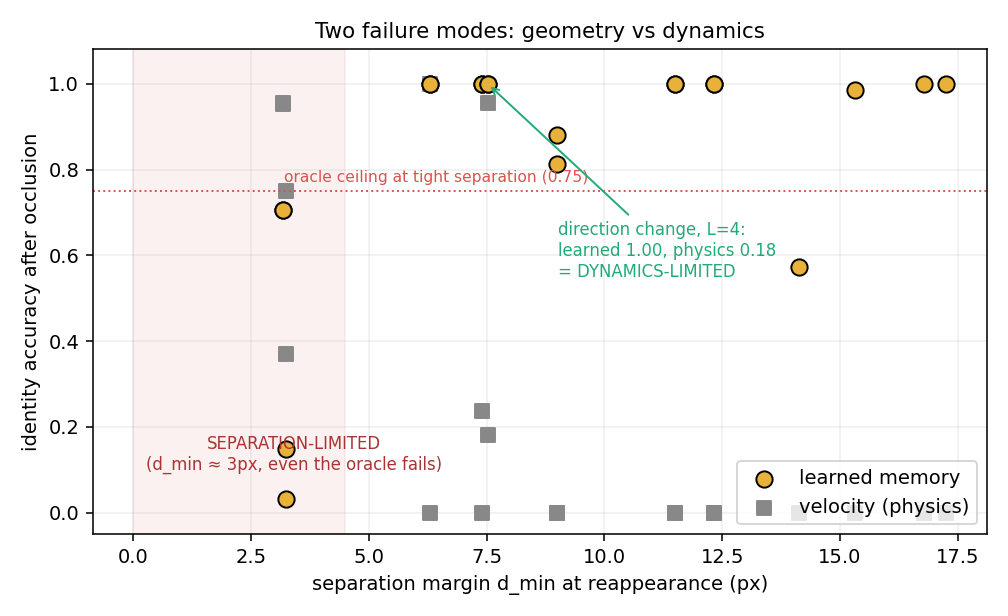
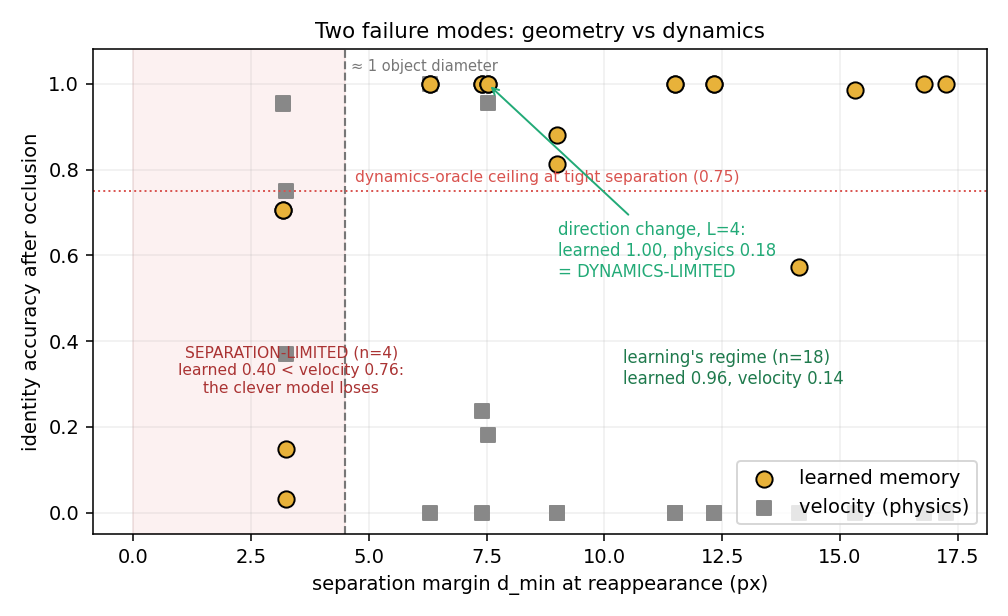
lab: MOCPS, prog separacji (jedna geometryczna liczba rzadzi dwoma rezimami)
Powyzej ~6px learned 0.96 vs velocity 0.14 (n=18); ponizej ~3px (1 srednica)
learned 0.40 przegrywa z bezpamieciowym 0.76 (n=4). Fig2 + akapit progowy, 3 jez.

diff --git a/src/content/projects/de/mocps.md b/src/content/projects/de/mocps.md
@@ -444,6 +444,8 @@ Ich habe gemessen, wie nah die Objekte im Wiedererscheinungs-Frame aneinander vo
 - **Trennungsbegrenzt:** bei starker Beschleunigung und kurzer Verdeckung ziehen die Objekte etwa 3 Pixel auseinander vorbei. Korrekte Zuordnung braucht einen Fehler unter ~1,5 px. Selbst das Orakel erreicht nur 0,75. Das behebt kein Lernen, es ist eine Grenze der Geometrie.
 - **Dynamikbegrenzt:** bei einem Richtungswechsel im Verborgenen ist die Trennung bequem (~7,5 px), und doch scheitert die Baseline (0,18), weil sie die falsche Richtung extrapoliert. Hier ist das gelernte Modell zu 100% richtig. Das ist die einzige Stelle, an der Lernen die Physik wirklich schlägt.
 
+Nach Trennung aggregiert zeigt sich eine Schwelle. Oberhalb von etwa 6 px hält der gelernte Zustand im Schnitt 0,96 Genauigkeit gegen 0,14 für Velocity (18 Zellen). In den vier Zellen, wo die Objekte innerhalb von etwa 3 px (ungefähr ein Durchmesser) vorbeiziehen, fällt der gelernte Zustand auf 0,40 und verliert gegen die gedächtnislose Baseline (0,76). Die Schwelle liegt auf der Objektskala, genau dort, wo zwei identische Flecken nicht mehr unterscheidbar sind: darunter gewinnt kein Dynamikmodell, und der klügere Prädiktor fügt nur Varianz hinzu.
+
 ![Zwei Versagensmechanismen: Identitätsgenauigkeit gegen den Trennungsabstand](/mocps/fig2_mechanisms.png)
 
 *Die zwei Mechanismen sind geometrisch und trennbar. Links vom roten Band passieren die Objekte zu nah, um sie zu unterscheiden (nicht reduzierbar). Der einzige Punkt, an dem ein bequemer Abstand die Physik dennoch schlägt, Richtungswechsel bei L=4, ist genau dort, wo Lernen gewinnt.*

diff --git a/src/content/projects/en/mocps.md b/src/content/projects/en/mocps.md
@@ -443,6 +443,8 @@ I measured how close the objects pass at the reappearance frame (the separation 
 - **Separation-limited:** under strong acceleration and short occlusion the objects pass about 3 pixels apart. Correct assignment needs error below ~1.5 px. Even the oracle only reaches 0.75. No amount of learning fixes this, it is a limit of geometry.
 - **Dynamics-limited:** under a direction change while hidden the separation is comfortable (~7.5 px), yet the baseline still fails (0.18) because it extrapolates the wrong direction. Here the learned model is right 100% of the time. This is the only place where learning genuinely beats physics.
 
+Aggregated by separation, one threshold appears. Above about 6 px the learned state holds 0.96 accuracy on average against 0.14 for velocity (18 cells). In the four cells where the objects pass within about 3 px (roughly one diameter), the learned state drops to 0.40 and loses to the memoryless baseline (0.76). The threshold sits at the object scale, exactly where two identical blobs stop being resolvable: below it no dynamics model wins, and the cleverer predictor only adds variance.
+
 ![Two failure mechanisms: identity accuracy versus the separation margin](/mocps/fig2_mechanisms.png)
 
 *The two mechanisms are geometric and separable. Left of the red band the objects pass too close to disambiguate (irreducible). The one point where a comfortable margin still defeats physics, direction change at L=4, is exactly where learning wins.*

diff --git a/src/content/projects/pl/mocps.md b/src/content/projects/pl/mocps.md
@@ -444,6 +444,8 @@ Policzyłem, jak blisko mijają się obiekty w klatce powrotu (margines separacj
 - **Separacyjna:** przy silnym przyśpieszeniu i krótkiej okluzji obiekty mijają się o około 3 piksele. Trafne przypisanie wymaga błędu poniżej ~1,5 px. Nawet orakulum dobija tylko do 0,75. Tego nie naprawi żadne uczenie, to granica geometrii.
 - **Dynamiczna:** przy zmianie kierunku za zasłoną separacja jest spokojna (~7,5 px), a baseline i tak pada (0,18), bo ekstrapoluje zły kierunek. Tu nauczony model trafia w 100%. To jedyne miejsce, gdzie uczenie naprawdę bije fizykę.
 
+Zagregowane po separacji widać jeden próg. Powyżej około 6 px nauczony stan trzyma średnio 0,96 trafności wobec 0,14 dla velocity (18 komórek). W czterech komórkach, gdzie obiekty mijają się w około 3 px (mniej więcej jedna średnica), nauczony stan spada do 0,40 i przegrywa z bezpamięciowym baselinem (0,76). Próg leży na skali obiektu, dokładnie tam, gdzie dwie identyczne plamy przestają być rozróżnialne: poniżej żaden model dynamiki nie wygra, a sprytniejszy predyktor tylko dokłada wariancji.
+
 ![Dwa mechanizmy porażki: trafność tożsamości względem marginesu separacji](/mocps/fig2_mechanisms.png)
 
 *Dwa mechanizmy są geometryczne i rozłączne. Na lewo od czerwonego pasa obiekty mijają się zbyt blisko, by je rozróżnić (nieusuwalne). Jedyny punkt, gdzie spokojny margines i tak pokonuje fizykę, zmiana kierunku przy L=4, to dokładnie miejsce, gdzie uczenie wygrywa.*